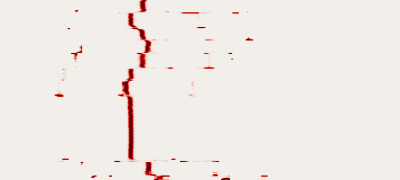
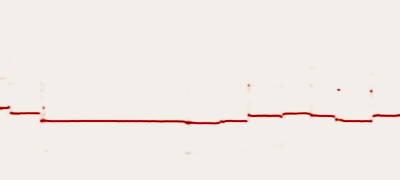
[sodabot] smorph site: fix pitch plot axis + default conga-gravel canvas
- render_patch_ctrl_signals: crepe returns (360,T) not (T,360);
  normalize per time-frame with axis=0 and plot directly (no transpose)
  so X=time, Y=pitch as intended
- Default canvas patch changed to conga-gravel

diff --git a/index.html b/index.html
@@ -938,8 +938,8 @@ footer em { font-style: normal; color: var(--color-red); }
   </p>
 
   <div class="patch-tabs" id="patch-tabs">
-    <button class="patch-tab active" data-patch="snare-glass">dry snare &middot; rocks &middot; fork &middot; water</button>
-    <button class="patch-tab" data-patch="conga-gravel">conga &middot; footsteps &middot; knocks &middot; coins</button>
+    <button class="patch-tab" data-patch="snare-glass">dry snare &middot; rocks &middot; fork &middot; water</button>
+    <button class="patch-tab active" data-patch="conga-gravel">conga &middot; footsteps &middot; knocks &middot; coins</button>
     <button class="patch-tab" data-patch="dog-flute">dog &middot; car &middot; flute &middot; wind</button>
     <button class="patch-tab" data-patch="xylophone-synth">xylophone &middot; oscillator &middot; pad &middot; violin</button>
     <button class="patch-tab" data-patch="retro-synth">retro synth &middot; windy singing &middot; marimba &middot; FM</button>
@@ -1749,7 +1749,7 @@ class SpectroMorph {
   });
 
   // load first patch on startup
-  loadPatch('snare-glass').catch(err => {
+  loadPatch('conga-gravel').catch(err => {
     if (err.message !== 'load cancelled') statusEl.textContent = `Error: ${err.message}`;
   });
 })();
